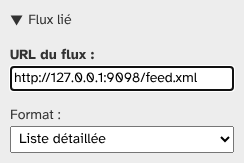
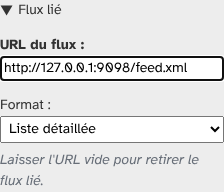
[cosmetic] User guide: follow the formats, limits, HTML and feed removal fixes

Changed region(s): [[0.0, 0.184, 1.0, 0.9816], [0.0, 0.0, 0.3125, 0.1534]]

diff --git a/docs/fr/utilisation.md b/docs/fr/utilisation.md
@@ -45,7 +45,7 @@ La page propose un bloc **Nouveau format** :
 
 * **Nom** : le nom du format, tel qu'il apparaîtra dans le menu des billets. Pour supprimer un format, videz son nom.
 * **Format des dates** : le format de date de Dotclear, par exemple `%d/%m/%Y`. Vide : le format de date du blog.
-* **Limite du nombre d'entrées** : combien d'éléments du flux afficher.
+* **Limite du nombre d'entrées** : combien d'éléments du flux afficher. Comme pour les longueurs, laissez vide pour ne pas limiter.
 
 **Titre**
 
@@ -70,7 +70,7 @@ Cliquez sur **Enregistrer** pour garder les formats.
 
 ![Le menu latéral du billet](img/billet-menu-lateral.png)
 
-Pour retirer le flux, il faut utiliser l'action de masse « Retirer un flux » décrite ci-dessous.
+Pour retirer le flux, videz le champ de l'adresse puis enregistrez le billet. L'action de masse « Retirer un flux », décrite ci-dessous, le fait pour plusieurs billets à la fois.
 
 ## Lier ou retirer un flux sur plusieurs billets
 
@@ -95,10 +95,6 @@ Le tout est dans un bloc `<div class="post-fac">` que vous pouvez habiller en CS
 
 ## Bon à savoir
 
-* **Un format enregistré n'est plus affiché dans la configuration.** Après l'enregistrement, la page ne montre que le bloc **Nouveau format**. Le format enregistré reste utilisable dans le menu des billets, mais on ne peut plus ni le modifier ni le supprimer, et un nouvel enregistrement de la page efface les formats existants. Il vaut mieux créer tous les formats en une seule fois et ne plus repasser sur cette page.
-* **Laisser une limite vide ne supprime pas la limite** : le plugin utilise alors sa valeur par défaut (5 éléments, 150 caractères pour le titre, 350 pour la description et le contenu), contrairement à ce que dit la page. Pour ne plus afficher un élément, ne cochez pas son option.
 * **Si l'on décoche tous les types de pages**, le plugin ne s'affiche plus nulle part.
-* **Le texte de l'élément n'est pas nettoyé** si « Retirer le code HTML » n'est pas coché : le HTML du flux distant est alors affiché tel quel. Ne reliez que des flux de confiance, ou cochez toujours cette option.
-* **Pas de bouton pour retirer le flux dans le menu latéral du billet** : il faut passer par l'action « Retirer un flux » de la liste des billets.
-* **Textes** : plusieurs fautes dans les textes de la page de configuration (« pulicEnryAfterContent », « Descritpion du flux », « Lié un flux a cette selection », « longueur » écrit « lengh »).
+* **Le HTML du flux distant est toujours nettoyé** : même si « Retirer le code HTML » n'est pas coché, les balises dangereuses sont retirées avant l'affichage.
 * **Flux injoignable** : si le flux ne répond pas ou n'est pas valide, rien n'est affiché sous le billet, sans message d'erreur.
